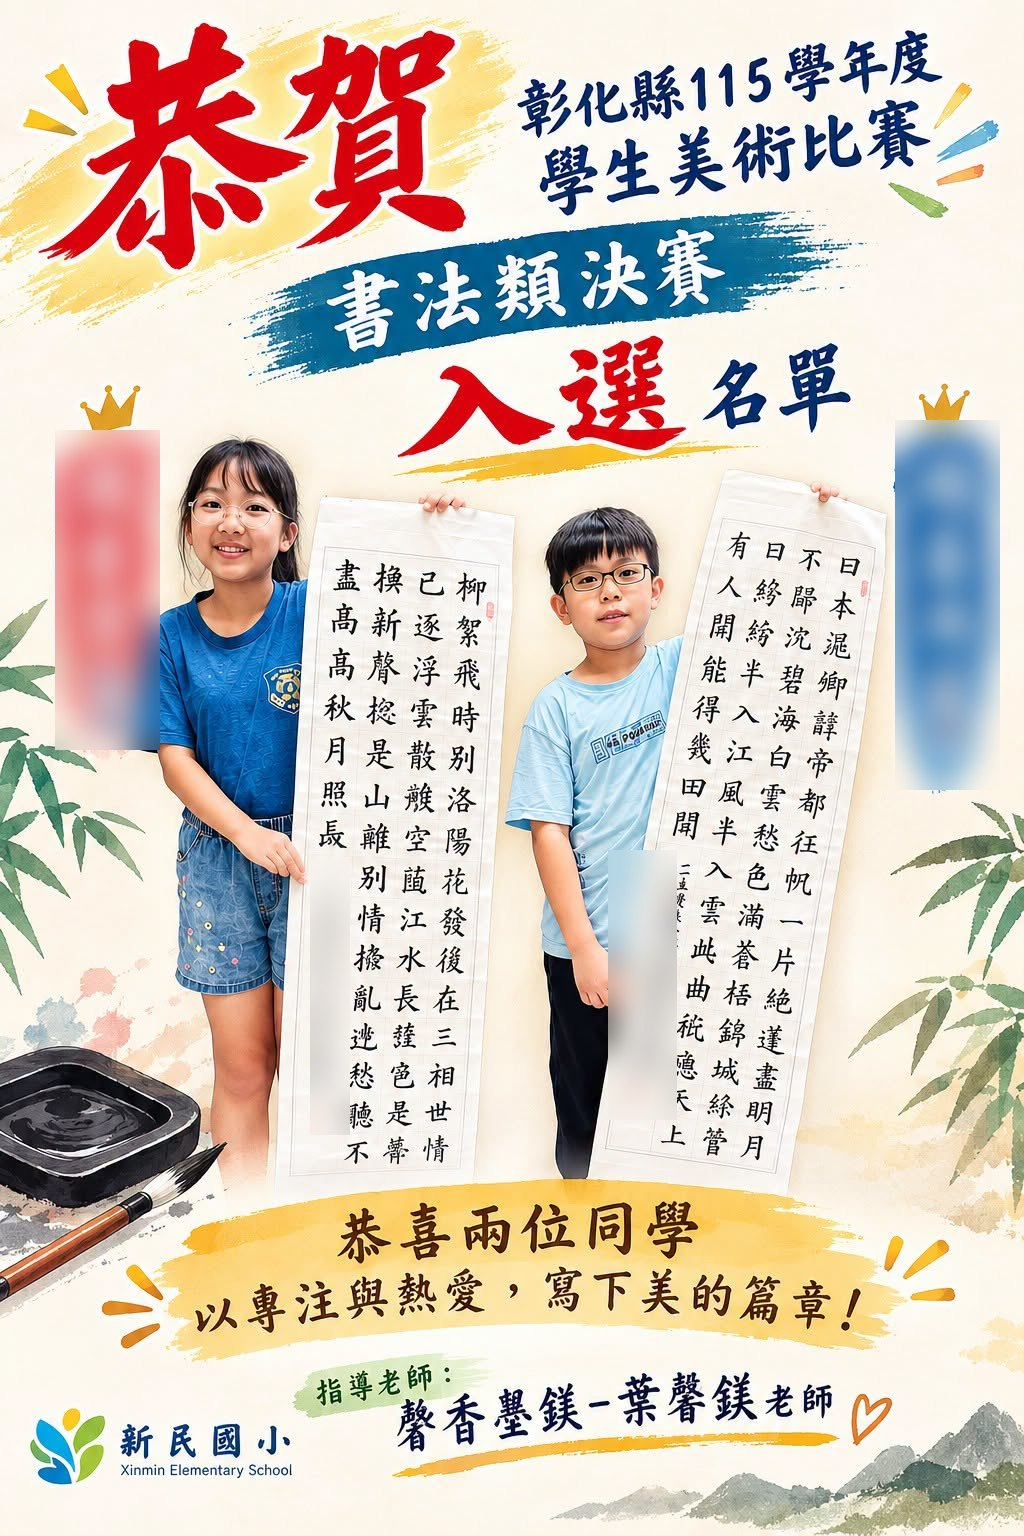
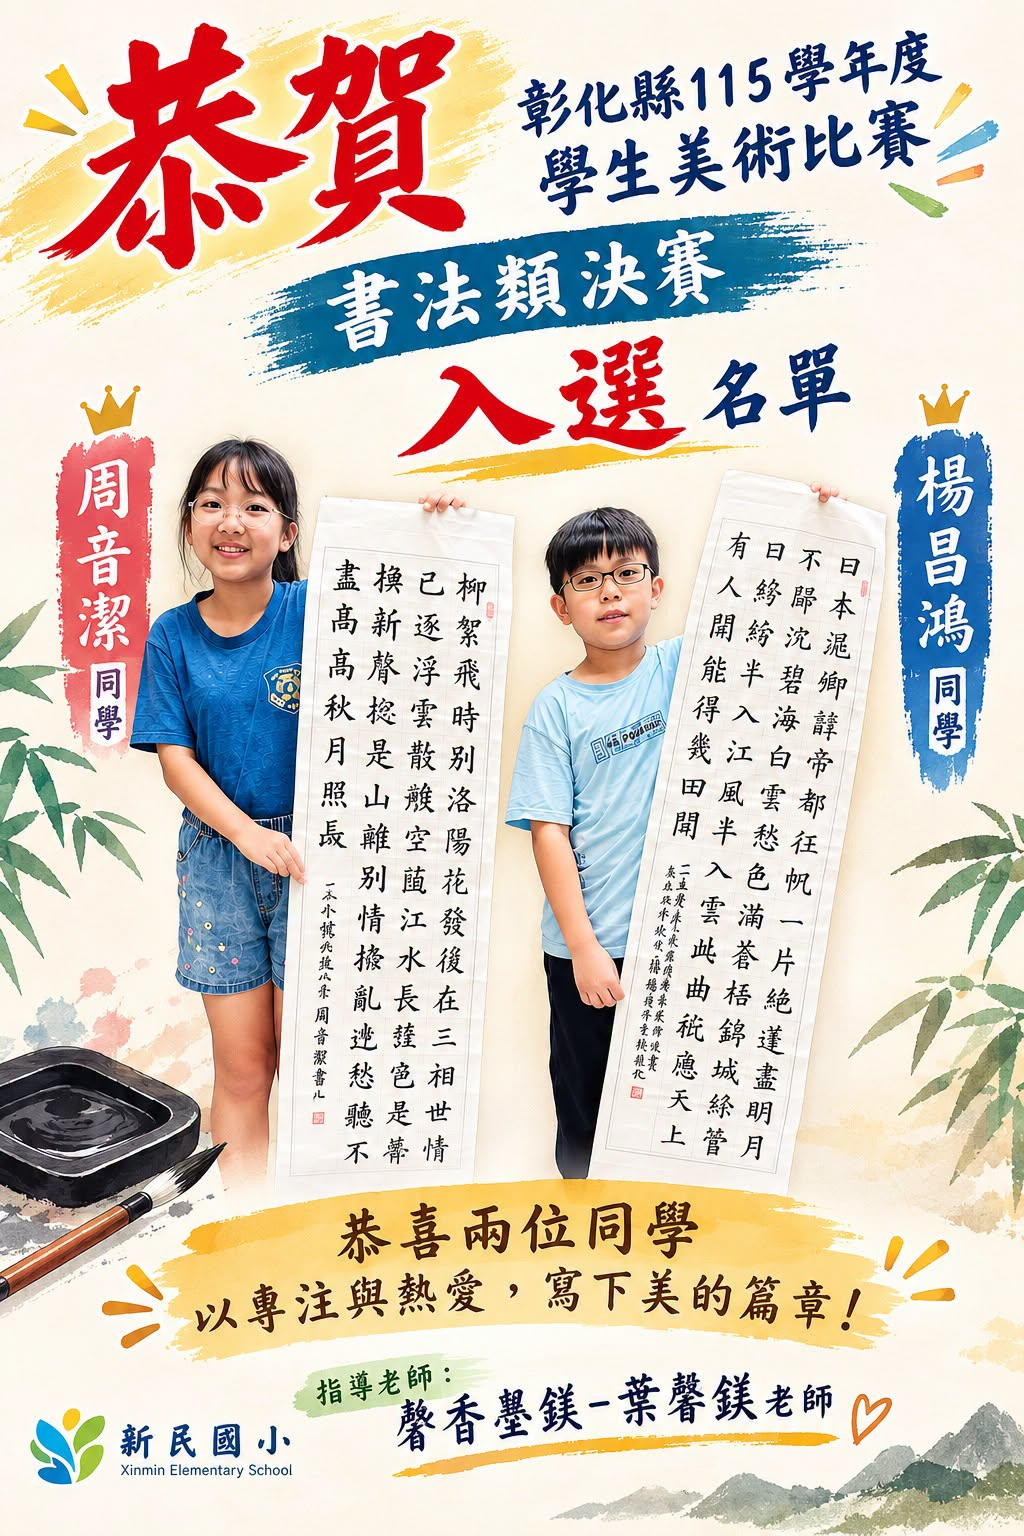
Hsinmin news: add student names to honor roll and calligraphy articles (publicly announced by the school)

diff --git a/schools/hsinmin/news/honor-roll-oct-2026/index.html b/schools/hsinmin/news/honor-roll-oct-2026/index.html
@@ -131,7 +131,7 @@
     <div class="ib-title">This Week's Honor Roll</div>
     <div class="ib-sub">朝會榮譽榜</div>
     <ul>
-      <li><span class="ic">&#129351;</span><div><b>Taekwondo champion</b> &mdash; one of our sixth graders won <b>first place</b> in the elementary boys' color-belt 58&ndash;68 kg division at the 44th Nantou City Sports Games Taekwondo Championship! (Office of Student Affairs)<span class="zh">學務處獎項｜六年級同學參加「南投市第44屆全民運動會跆拳道錦標賽」，勇奪國小男子色帶組 58–68KG 冠軍</span></div></li>
+      <li><span class="ic">&#129351;</span><div><b>Taekwondo champion</b> &mdash; <b>Hsu Cheng-fan</b> (601) won <b>first place</b> in the elementary boys' color-belt 58&ndash;68 kg division at the 44th Nantou City Sports Games Taekwondo Championship! (Office of Student Affairs)<span class="zh">學務處獎項｜601 徐承範同學參加「南投市第44屆全民運動會跆拳道錦標賽」，勇奪國小男子色帶組 58–68KG 冠軍</span></div></li>
       <li><span class="ic">&#128214;</span><div><b>Cool English Reading King</b> &mdash; outstanding results in the SY115 contest &mdash; <a href="https://smps.chc.edu.tw/posts/2242" target="_blank" rel="noopener">see the list</a> (Office of Academic Affairs)<span class="zh">教務處獎項｜115年度 Cool English 英閱王比賽，成績卓越</span></div></li>
       <li><span class="ic">&#128218;</span><div><b>Excellent summer homework</b> &mdash; grades 4&ndash;6, semester 115-1 &mdash; <a href="https://smps.chc.edu.tw/posts/2243" target="_blank" rel="noopener">see the list</a><span class="zh">115-1 四、五、六年級暑假作業優秀名單</span></div></li>
       <li><span class="ic">&#127912;</span><div><b>Published in <em>Wisdom Fruit</em> No. 167</b> &mdash; our students' calligraphy and paintings appeared in the county magazine &mdash; <a href="https://smps.chc.edu.tw/posts/2244" target="_blank" rel="noopener">see the list</a><span class="zh">本校學生優秀書畫作品刊登於第167期《智慧菓》</span></div></li>
@@ -142,7 +142,7 @@
     <div class="cap">跆拳道錦標賽國小男子色帶組 58–68KG 冠軍</div>
   </div>
   <div class="en-body">
-    <p>&#129355; Session after session of training and drop after drop of sweat built the confidence and strength our taekwondo champion showed in competition &mdash; a true example of persistence, courage, and never giving up, earning honor for himself and for the school.</p>
+    <p>&#129355; Session after session of training and drop after drop of sweat built the confidence and strength Cheng-fan showed in competition &mdash; a true example of persistence, courage, and never giving up, earning honor for himself and for the school.</p>
     <p>Behind every honor is a child's hard work &mdash; and teachers who guided, encouraged, and walked alongside them. &#10084;&#65039; Thank you to all the teachers who coached our students!</p>
     <p>&#127793; There is no single answer in learning, and there's more than one stage. Whether it's schoolwork, the arts, English reading, or sports, anyone who is willing to work hard and take on a challenge can find their own light.</p>
   </div>
@@ -150,7 +150,7 @@
   <div class="zhwrap"><span class="zhlabel">中文原文 &middot; Chinese</span>
   <div class="zh-body">
     <p>【朝會榮譽榜｜每一份努力，都值得被看見】 🌻🌻<br>新的一週，從掌聲與肯定開始！👏👏<br>在今天的朝會中，我們一起為在不同領域努力、挑戰自我並獲得佳績的同學喝采！<br>有人用心完成學習，有人用畫筆展現創意，有人挑戰英語閱讀，也有人在運動場上揮灑汗水、突破自我！</p>
-    <p>📣 學務處獎項<br>六年級同學參加「南投市第44屆全民運動會跆拳道錦標賽」，勇奪<br>🥇 國小男子色帶組 58–68KG 冠軍！<br>🥋 一次次訓練、一滴滴汗水，<br>累積成賽場上的自信與實力！<br>用行動展現 堅持、勇氣與永不放棄的運動精神，為自己，也為學校爭取榮耀！</p>
+    <p>📣 學務處獎項<br>601 徐承範同學參加「南投市第44屆全民運動會跆拳道錦標賽」，勇奪<br>🥇 國小男子色帶組 58–68KG 冠軍！<br>🥋 一次次訓練、一滴滴汗水，<br>累積成賽場上的自信與實力！<br>承範用行動展現 堅持、勇氣與永不放棄的運動精神，為自己，也為學校爭取榮耀！</p>
     <p>教務處獎項<br>115年度 Cool English 英閱王比賽，成績卓越！<br><a href="https://smps.chc.edu.tw/posts/2242" target="_blank" rel="noopener">https://smps.chc.edu.tw/posts/2242</a><br>透過持續閱讀與練習累積英語實力，勇敢挑戰自我，讓英語學習開出美麗的成果！🇬🇧📖</p>
     <p>❤ 115-1 四、五、六年級暑假作業優秀名單<br><a href="https://smps.chc.edu.tw/posts/2243" target="_blank" rel="noopener">https://smps.chc.edu.tw/posts/2243</a><br>用心完成每一份作業，展現認真學習的態度與成果！📚✨</p>
     <p>❤ 本校學生優秀書畫作品刊登於第167期《智慧菓》<br><a href="https://smps.chc.edu.tw/posts/2244" target="_blank" rel="noopener">https://smps.chc.edu.tw/posts/2244</a><br>一筆一畫，都是孩子創意與努力的累積，讓作品走出校園、被更多人看見！🎨🖌</p>

diff --git a/schools/hsinmin/news/index.html b/schools/hsinmin/news/index.html
@@ -118,7 +118,7 @@
     <span class="ic">&#128269;</span>
     <button class="clr" id="clr" aria-label="Clear">&times;</button>
   </div>
-  <p class="scount" id="scount"></p>  <a class="feat" href="calligraphy-finalists-2026/" data-q="藝文之光 書法 彰化縣115學年度學生美術比賽 書法類決賽 入選 葉馨鎂老師 一撇一捺 筆墨 brush ink stroke finalist paper neat 2026.10.07 hsinmin calligraphy art competition">
+  <p class="scount" id="scount"></p>  <a class="feat" href="calligraphy-finalists-2026/" data-q="藝文之光 書法 彰化縣115學年度學生美術比賽 書法類決賽 入選 周音潔 楊昌鴻 葉馨鎂老師 一撇一捺 筆墨 brush ink stroke finalist paper neat 2026.10.07 hsinmin calligraphy art competition">
     <div class="feat__img"><img src="../news-img/calligraphy-finalists-2026-1.jpg" alt="恭賀彰化縣115學年度學生美術比賽書法類決賽入選海報" style="object-position:center 32%"></div>
     <div class="feat__b">
       <div class="feat__date">2026.10.07 &middot; Latest</div>
@@ -128,7 +128,7 @@
     </div>
   </a>
   <div class="news-grid">
-    <a class="ncard" href="honor-roll-oct-2026/" data-q="朝會榮譽榜 跆拳道錦標賽 南投市第44屆全民運動會 色帶組 冠軍 Cool English 英閱王 暑假作業優秀名單 智慧菓第167期 書畫作品 award homework reading artwork training shine 2026.10.07 hsinmin honor roll assembly"><div class="ncard__img"><img src="../news-img/honor-roll-oct-2026-1.jpg" alt="朝會上獲獎同學手持獎狀在台上合影" loading="lazy"></div><div class="ncard__b"><div class="ncard__date">2026.10.07</div><div class="ncard__t">Every Effort Deserves to Be Seen &#127803;&#128079;<small>朝會榮譽榜｜每一份努力，都值得被看見</small></div><div class="ncard__cta">Read more &rarr;</div></div></a>
+    <a class="ncard" href="honor-roll-oct-2026/" data-q="朝會榮譽榜 徐承範 跆拳道錦標賽 南投市第44屆全民運動會 色帶組 冠軍 Cool English 英閱王 暑假作業優秀名單 智慧菓第167期 書畫作品 award homework reading artwork training shine 2026.10.07 hsinmin honor roll assembly"><div class="ncard__img"><img src="../news-img/honor-roll-oct-2026-1.jpg" alt="朝會上獲獎同學手持獎狀在台上合影" loading="lazy"></div><div class="ncard__b"><div class="ncard__date">2026.10.07</div><div class="ncard__t">Every Effort Deserves to Be Seen &#127803;&#128079;<small>朝會榮譽榜｜每一份努力，都值得被看見</small></div><div class="ncard__cta">Read more &rarr;</div></div></a>
     <a class="ncard" href="genesis-traffic-safety/" data-q="交通安全 創世基金會 陳叔叔 大腦總司令 安全座椅 安全帶 斑馬線 綠燈 安全帽 停看轉揮動 大車死角 內輪差 隱形大怪獸 brain seatbelt crosswalk truck careful wave 2026.10.07 hsinmin traffic safety genesis foundation"><div class="ncard__img"><img src="../news-img/genesis-traffic-safety-2.jpg" alt="創世基金會講師在集會堂進行交通安全宣導" loading="lazy"></div><div class="ncard__b"><div class="ncard__date">2026.10.07</div><div class="ncard__t">Protect Your Brain, Stay Safe on the Road &#129504;&#128678;<small>轉角遇到愛，安全出發去！交通安全大作戰</small></div><div class="ncard__cta">Read more &rarr;</div></div></a>
     <a class="ncard" href="october-calls-2026/" data-q="十月徵稿三連發 智慧菓 第168期 紙上談心 馬到成功 國語日報 週日美感藝廊 小畫家召集令 我是大膽王 動手做生活更美好 徵文 郵戳 10/12 10/26 10/31 newspaper essay painting theme chance postmark 2026.10.07 hsinmin writing art submissions"><div class="ncard__img"><img src="../news-img/october-calls-2026-2.jpg" alt="國語日報徵文「動手做，生活更美好」" loading="lazy"></div><div class="ncard__b"><div class="ncard__date">2026.10.07</div><div class="ncard__t">Three Calls for Entries in October &#9997;&#65039;&#127912;<small>小編報報｜十月徵稿三連發！</small></div><div class="ncard__cta">Read more &rarr;</div></div></a>
     <a class="ncard" href="lawn-singing-contest-2026/" data-q="草地歌喉戰 校園歌唱比賽 115學年度 報名 歌王 歌后 獨唱 組隊 家人合唱 伴唱系統 MP3 樂器伴奏 10/20 截止 11/5 抽籤 11/10 初賽 彩排 11/20 決賽 操場 集會堂 學務處 獎狀 獎品 singer song contest microphone deadline prize 2026.10.05 hsinmin singing competition music"><div class="ncard__img"><img src="../news-img/lawn-singing-contest-2026-1.jpg" alt="「草地歌喉戰」校園歌唱比賽海報" loading="lazy" style="object-position:center 20%"></div><div class="ncard__b"><div class="ncard__date">2026.10.05</div><div class="ncard__t">Lawn Singing Contest: Sign Up Now! &#127908;&#127926;<small>115學年度新民國小「草地歌喉戰」火熱報名中！</small></div><div class="ncard__cta">Read more &rarr;</div></div></a>

diff --git a/schools/hsinmin/news/calligraphy-finalists-2026/index.html b/schools/hsinmin/news/calligraphy-finalists-2026/index.html
@@ -4,7 +4,7 @@
 <meta charset="utf-8">
 <meta name="viewport" content="width=device-width,initial-scale=1">
 <title>Writing Their Own Brilliance &middot; News &middot; Hsinmin Elementary 新民國小</title>
-<meta name="description" content="Two Hsinmin students were selected as calligraphy finalists in the Changhua County SY115 Student Art Competition. 本校兩位同學入選彰化縣115學年度學生美術比賽書法類決賽。">
+<meta name="description" content="Chou Yin-chieh and Yang Chang-hung were selected as calligraphy finalists in the Changhua County SY115 Student Art Competition. 本校兩位同學入選彰化縣115學年度學生美術比賽書法類決賽。">
 <link rel="icon" type="image/png" sizes="32x32" href="/schools/hsinmin/favicon-32.png">
 <link rel="icon" type="image/png" sizes="192x192" href="/schools/hsinmin/favicon-192.png">
 <link rel="apple-touch-icon" sizes="180x180" href="/schools/hsinmin/favicon-180.png">
@@ -120,12 +120,12 @@
 </header>
 <main><div class="wrap"><div class="article">
   <div class="poster">
-    <img src="../../news-img/calligraphy-finalists-2026-1.jpg" alt="恭賀彰化縣115學年度學生美術比賽書法類決賽入選海報，兩位同學手持書法作品">
+    <img src="../../news-img/calligraphy-finalists-2026-1.jpg" alt="恭賀彰化縣115學年度學生美術比賽書法類決賽入選海報，周音潔、楊昌鴻兩位同學手持書法作品">
     <div class="cap">彰化縣115學年度學生美術比賽 &middot; 書法類決賽入選</div>
   </div>
   <div class="en-body">
     <p>Each stroke of the brush writes more than words &mdash; it writes a child's focus, patience, and persistence.</p>
-    <p>Congratulations to <strong>two of our students</strong>, one fifth grader and one sixth grader, who were selected as <strong>finalists in the calligraphy category</strong> of the <strong>Changhua County SY115 Student Art Competition</strong>! &#127775;</p>
+    <p>Congratulations to <strong>Chou Yin-chieh</strong> (503) and <strong>Yang Chang-hung</strong> (602), who were selected as <strong>finalists in the calligraphy category</strong> of the <strong>Changhua County SY115 Student Art Competition</strong>! &#127775;</p>
     <p>From practice after practice to finished works now on display, the two of them used focus and hard work to write a brilliant chapter of their own.</p>
   </div>
   <div class="quote-box"><p>Every sweep of the brush is skill with ink; every stroke is persistence built up.<span class="zh">一撇一捺，是筆墨的功夫；一筆一畫，是堅持的累積。</span></p></div>
@@ -135,7 +135,7 @@
   <div class="zhwrap"><span class="zhlabel">中文原文 &middot; Chinese</span>
   <div class="zh-body">
     <p>藝文之光｜書寫出自己的精彩<br>一筆一畫，寫的不只是文字，<br>更是孩子的專注、耐心與堅持。</p>
-    <p>恭喜本校兩位同學！<br>👏 五年級、六年級各一位同學<br>參加 「彰化縣115學年度學生美術比賽」，<br>🌟 入選書法類決賽！ 🌟<br>從一次次的練習，到作品呈現在大家眼前，孩子們用專注與努力，寫下屬於自己的精彩篇章。</p>
+    <p>恭喜本校兩位同學！<br>👏 503 周音潔同學<br>👏 602 楊昌鴻同學<br>參加 「彰化縣115學年度學生美術比賽」，<br>🌟 入選書法類決賽！ 🌟<br>從一次次的練習，到作品呈現在大家眼前，孩子們用專注與努力，寫下屬於自己的精彩篇章。</p>
     <p>🖌 一撇一捺，是筆墨的功夫；<br>一筆一畫，是堅持的累積。<br>恭喜兩位同學，也感謝 葉馨鎂老師 的用心指導與陪伴！<br>願孩子們繼續帶著這份專注與熱情，在藝文的舞台上持續發光！<br>讓我們一起為兩位同學喝采！</p>
   </div></div>
 </div>
